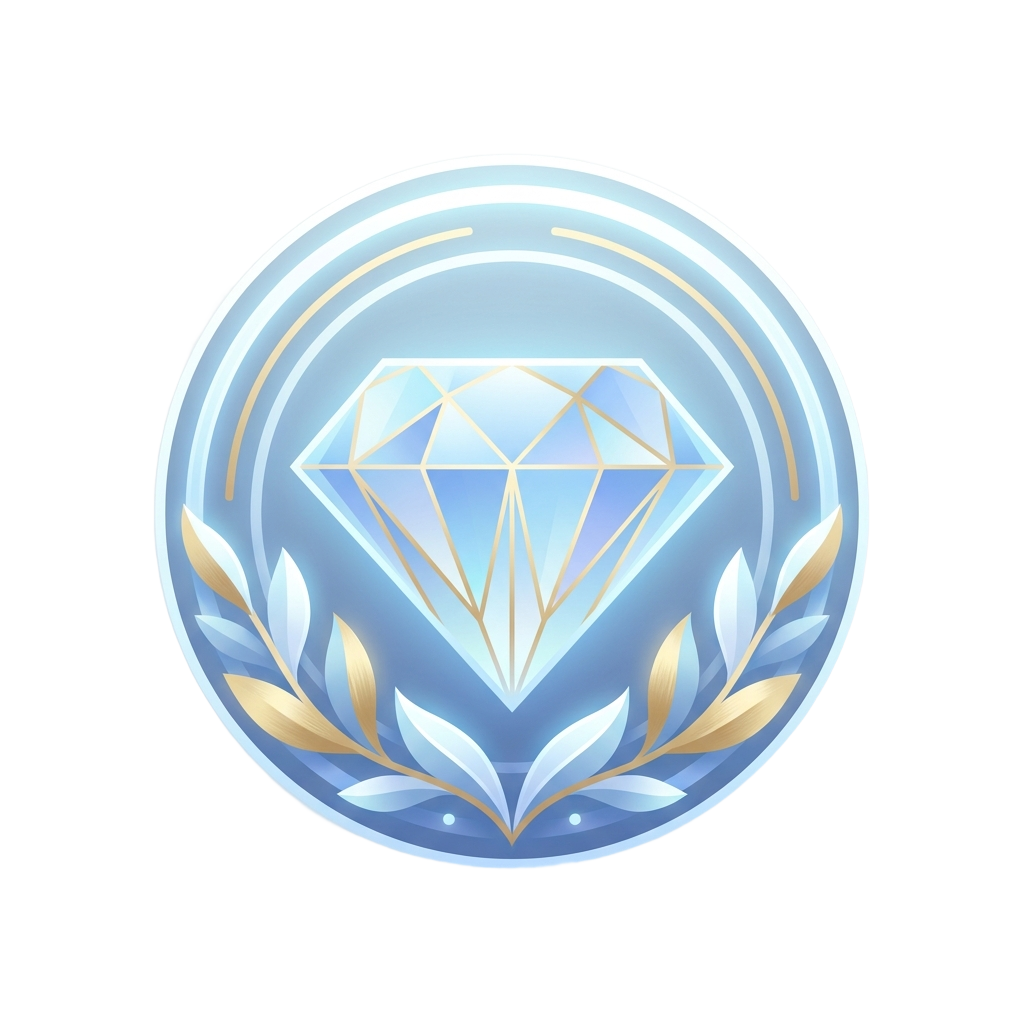
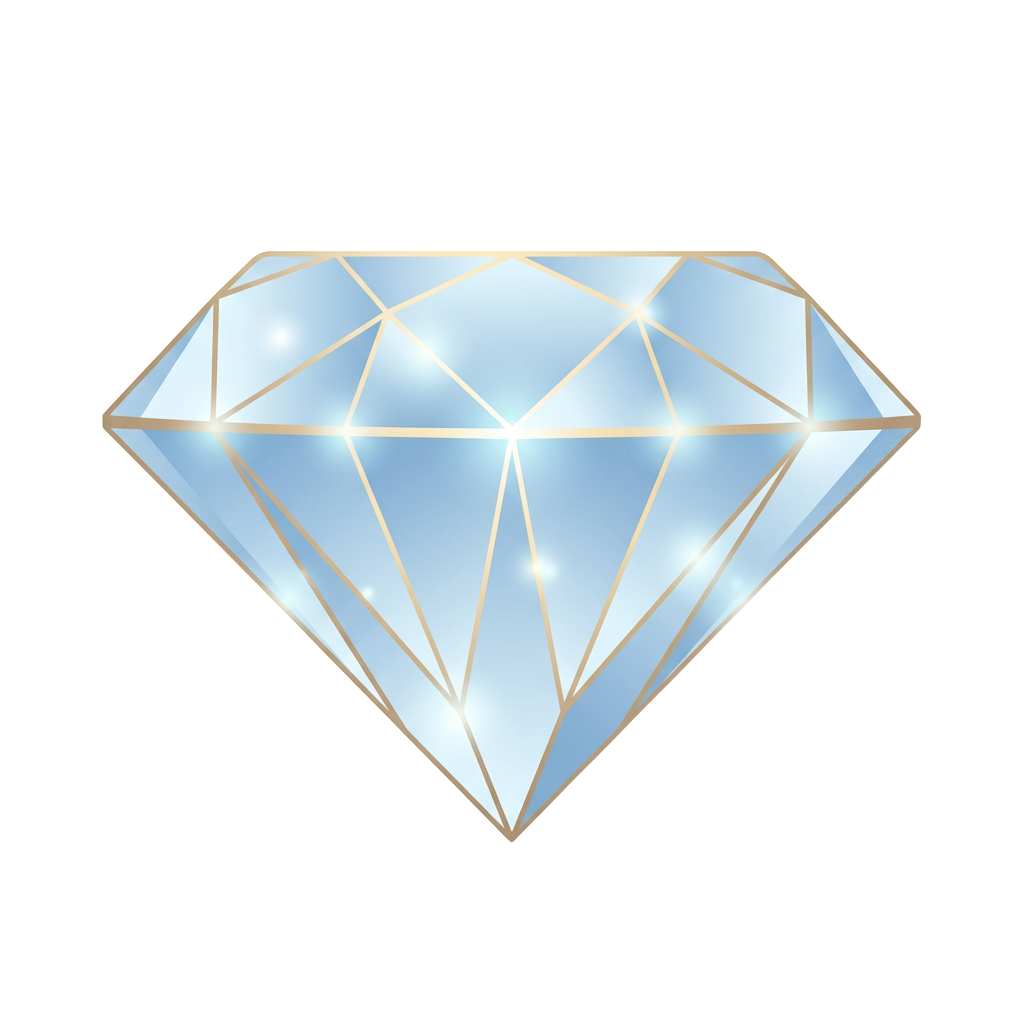
Premium-Badge: einzeln stehender Diamant
Neues, freigestelltes Diamant-Motiv (ohne Kreis/Lorbeer) für den
Premium-Dialog. SW-Cache v45, damit Clients das neue Bild laden.

diff --git a/sw.js b/sw.js
@@ -2,7 +2,7 @@
 
 importScripts("js/reminders-db.js");
 
-const CACHE = "impfpass-v44";
+const CACHE = "impfpass-v45";
 const ASSETS = [
   "index.html",
   "datenschutz.html",
